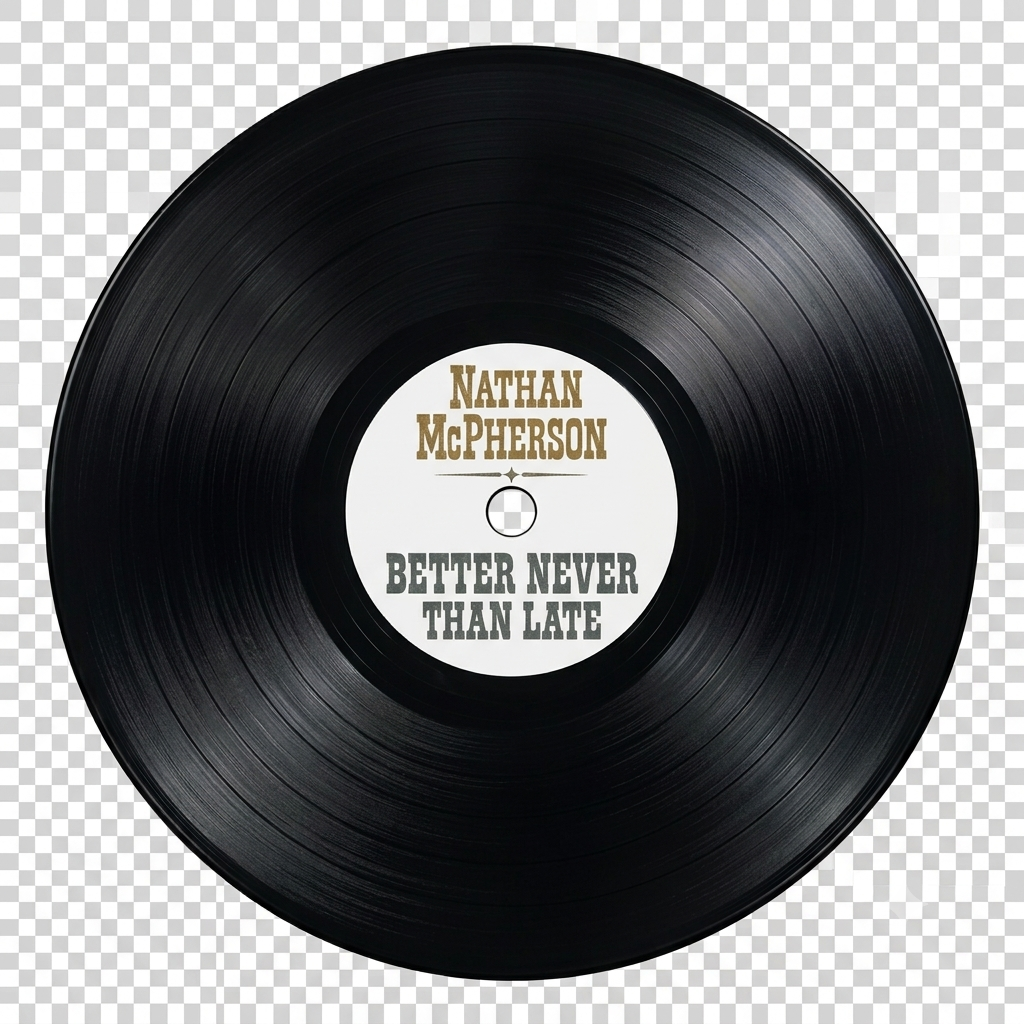
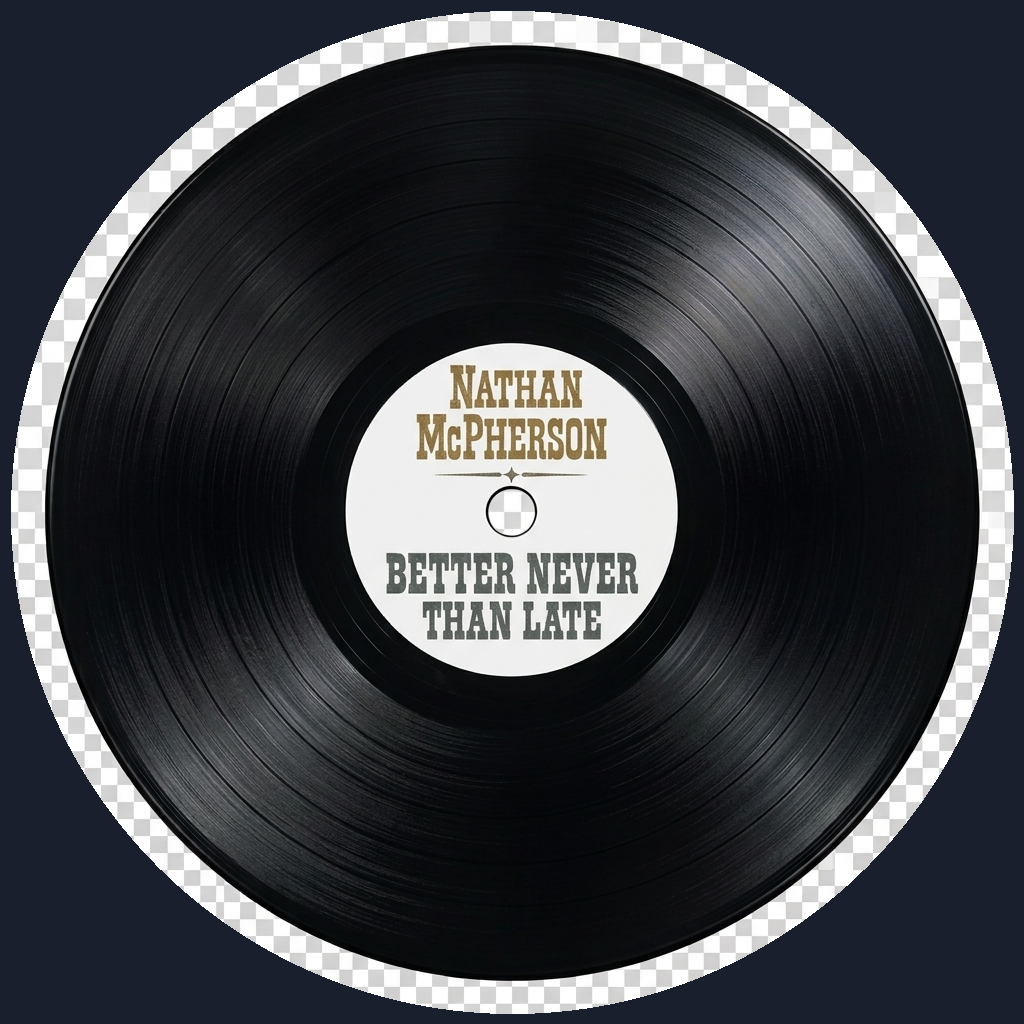
Fix vinyl white ring: overflow:hidden + scale(1.12) to crop outer edge

Changed region(s): [[0.0, 0.0, 1.0, 1.0]]

diff --git a/index.html b/index.html
@@ -152,22 +152,23 @@
       position: absolute;
       inset: 0;
       border-radius: 50%;
+      overflow: hidden;
       background: #0d0d0d;
       z-index: 1;
       cursor: grab;
       transform-origin: 50% 50%;
       transform: translateX(calc(var(--slide) * 60%)) rotate(var(--spin));
       transition: transform 0.55s cubic-bezier(0.2, 0.8, 0.2, 1);
+      box-shadow: 0 18px 40px rgba(0,0,0,0.6);
     }
     .vinyl-record.dragging { transition: none; cursor: grabbing; }
     .vinyl-img {
       width: 100%;
       height: 100%;
-      border-radius: 50%;
       object-fit: cover;
       display: block;
       pointer-events: none;
-      box-shadow: 0 18px 40px rgba(0,0,0,0.6);
+      transform: scale(1.12);
     }
     .vinyl-sleeve {
       position: absolute;
